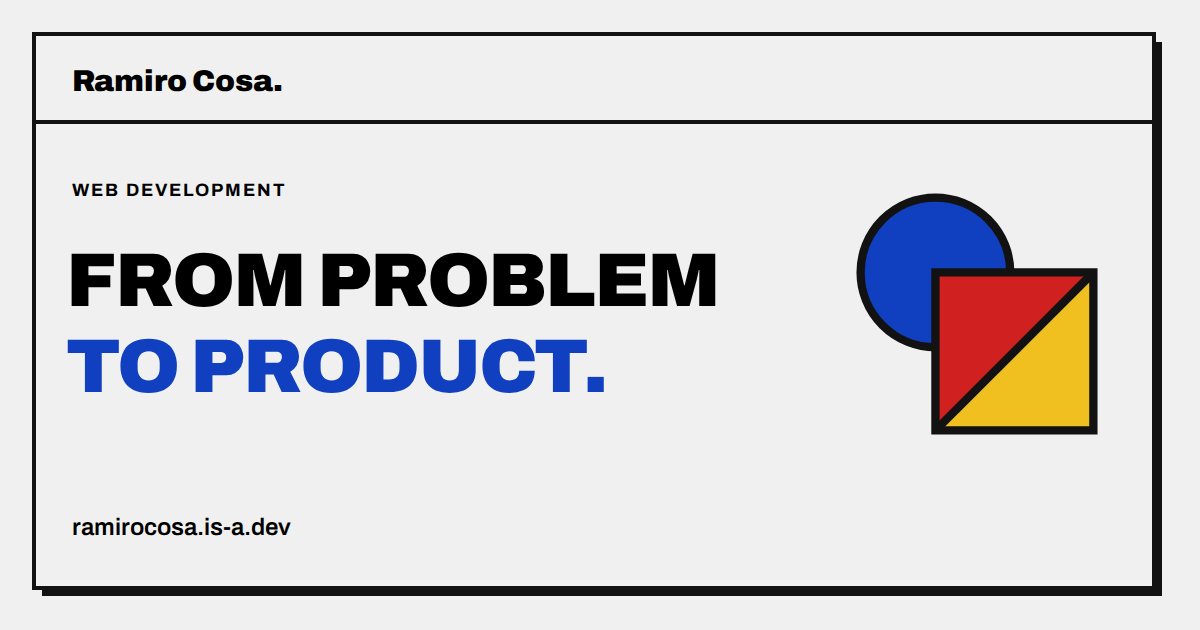
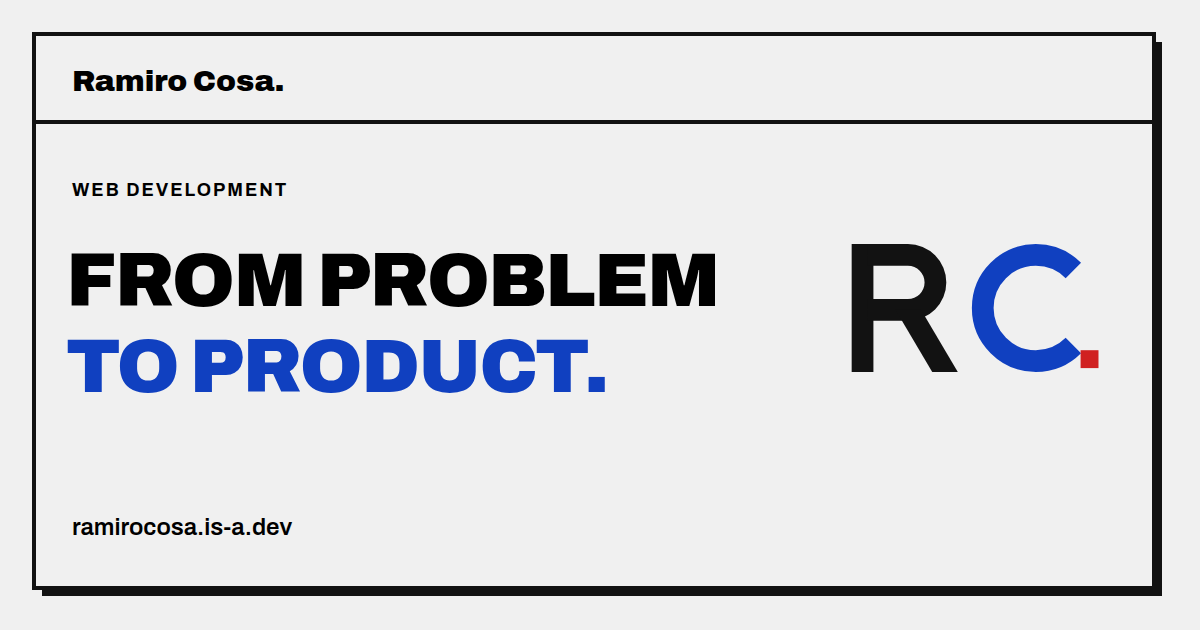
design: introduce modular RC identity and subtle brand motion

diff --git a/src/styles/global.css b/src/styles/global.css
@@ -49,7 +49,9 @@ button,input,textarea,select { font: inherit; }
 a,button { touch-action: manipulation; -webkit-tap-highlight-color: var(--yellow); }
 .site-header { display: grid; grid-template-columns: 1fr auto auto; align-items: center; gap: 32px; padding: 20px 32px; border-bottom: 4px solid var(--ink); }
 .wordmark { display: inline-flex; align-items: center; min-height: 44px; width: fit-content; font-size: 24px; font-weight: 900; text-decoration: none; letter-spacing: -.04em; }
-.wordmark span { color: var(--red); }
+.wordmark { gap: 10px; white-space: nowrap; }
+.wordmark:hover { text-decoration: none; }
+.wordmark .brand-stop { color: var(--red); }
 .site-nav,.language-nav { display: flex; align-items: center; gap: 24px; }
 .site-nav a,.language-nav a { display: inline-flex; align-items: center; justify-content: center; min-height: 44px; font-size: 14px; font-weight: 700; text-transform: uppercase; text-decoration: none; }
 .site-nav a[aria-current="page"],.site-nav a.section-current { color: var(--blue); }
@@ -93,7 +95,7 @@ a,button { touch-action: manipulation; -webkit-tap-highlight-color: var(--yellow
   .site-frame { box-shadow: 4px 4px 0 var(--ink); }
   main { padding: 24px 16px; }
   .site-header { grid-template-columns: 1fr auto; gap: 0 8px; padding: 8px 12px; }
-  .wordmark { font-size: 22px; }
+  .wordmark { font-size: 20px; gap: 8px; }
   .language-nav { grid-column: 2; grid-row: 1; }
   .site-nav { grid-column: 1 / -1; grid-row: 2; justify-content: space-between; gap: 8px; }
   .site-nav a { font-size: 12px; }
